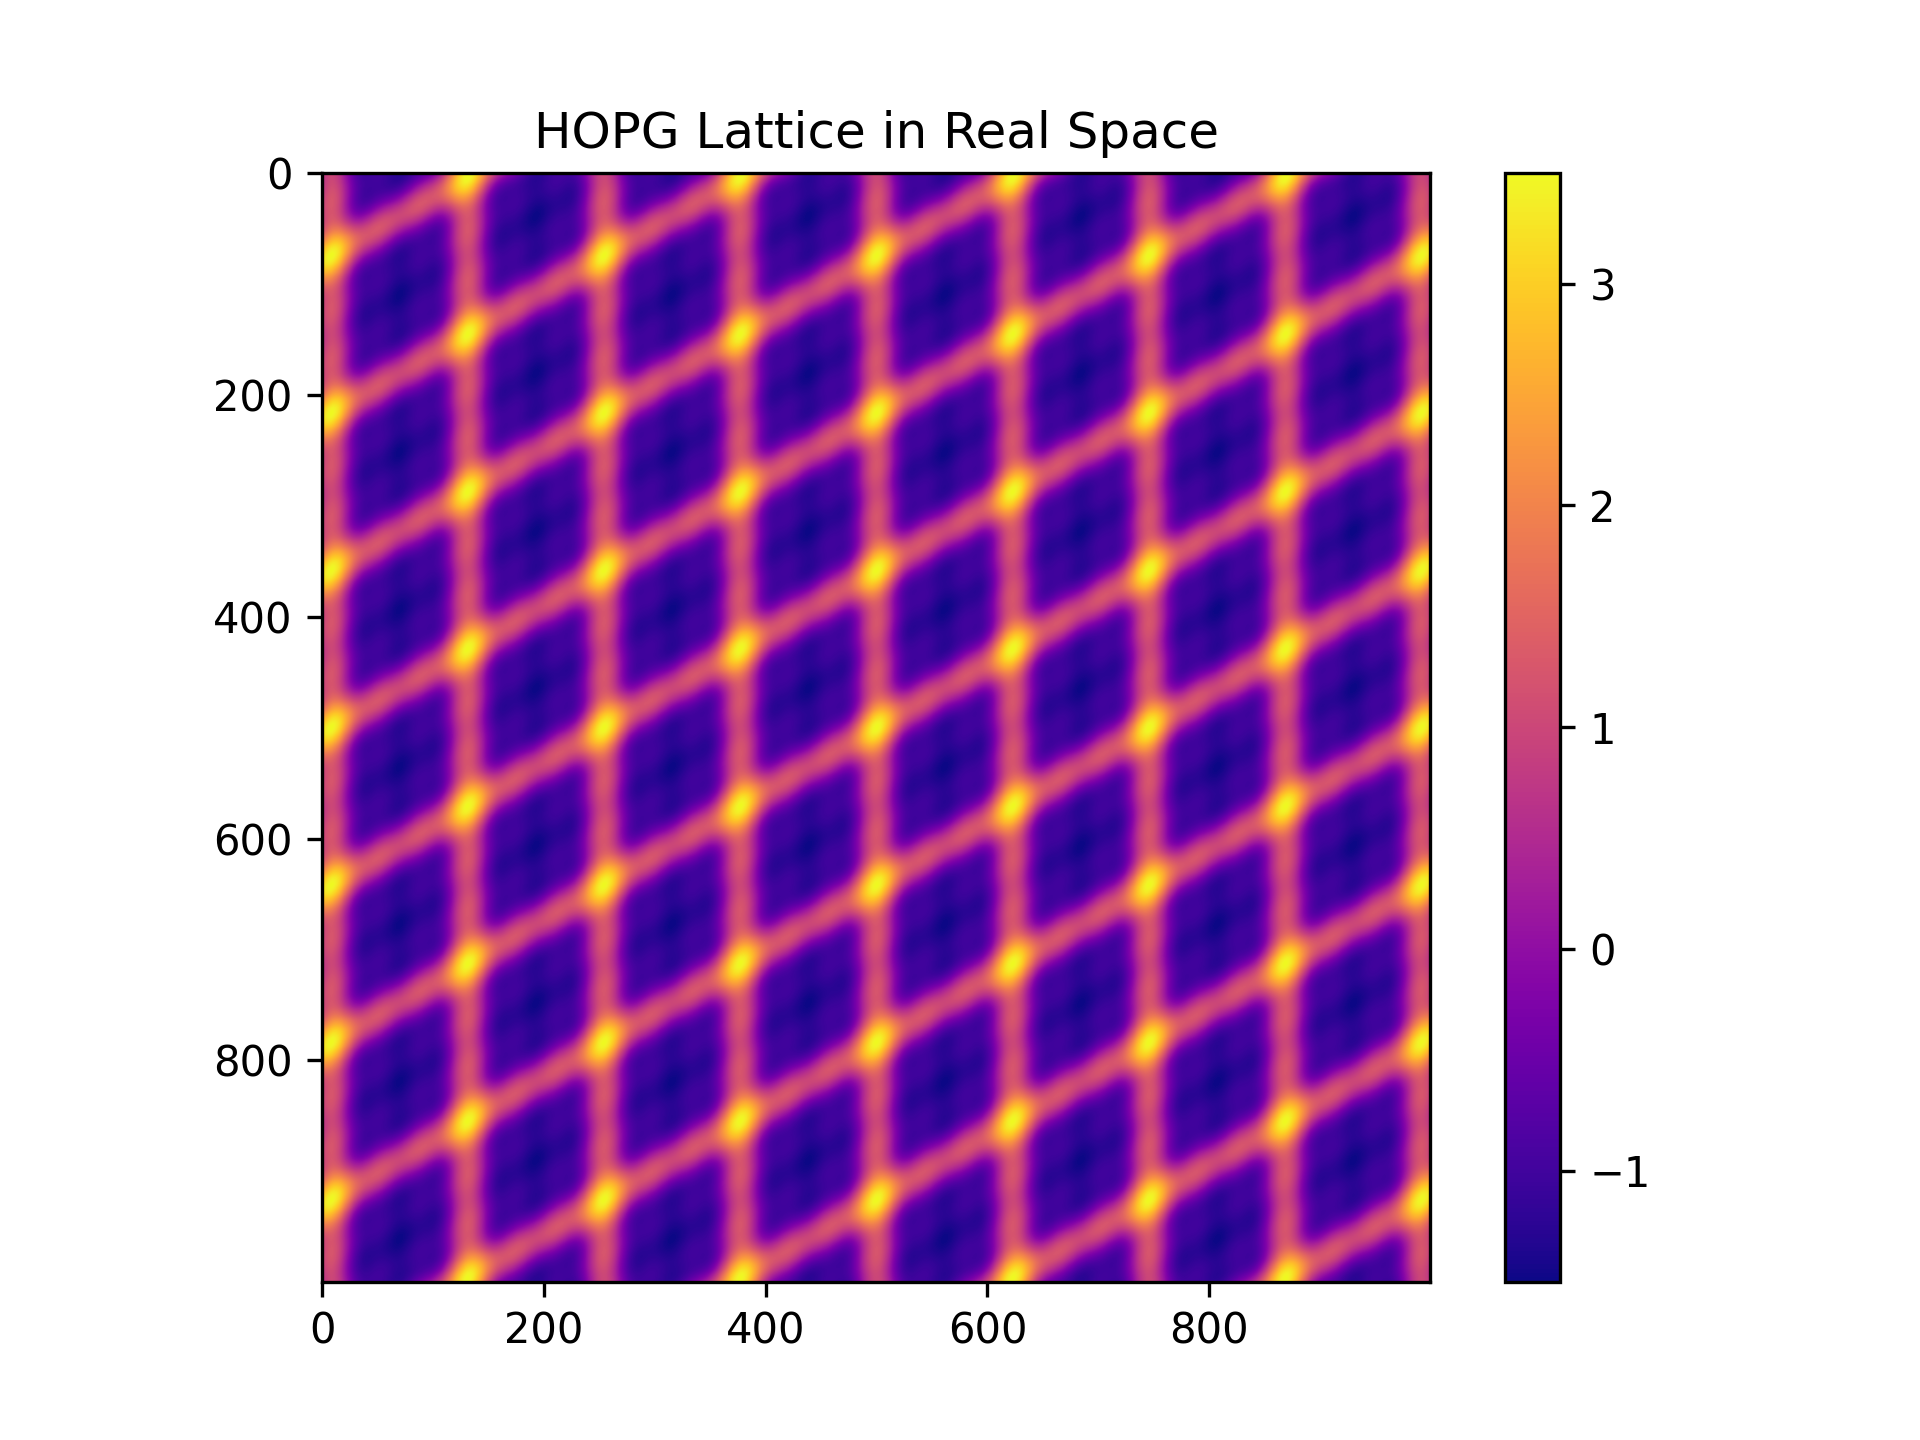
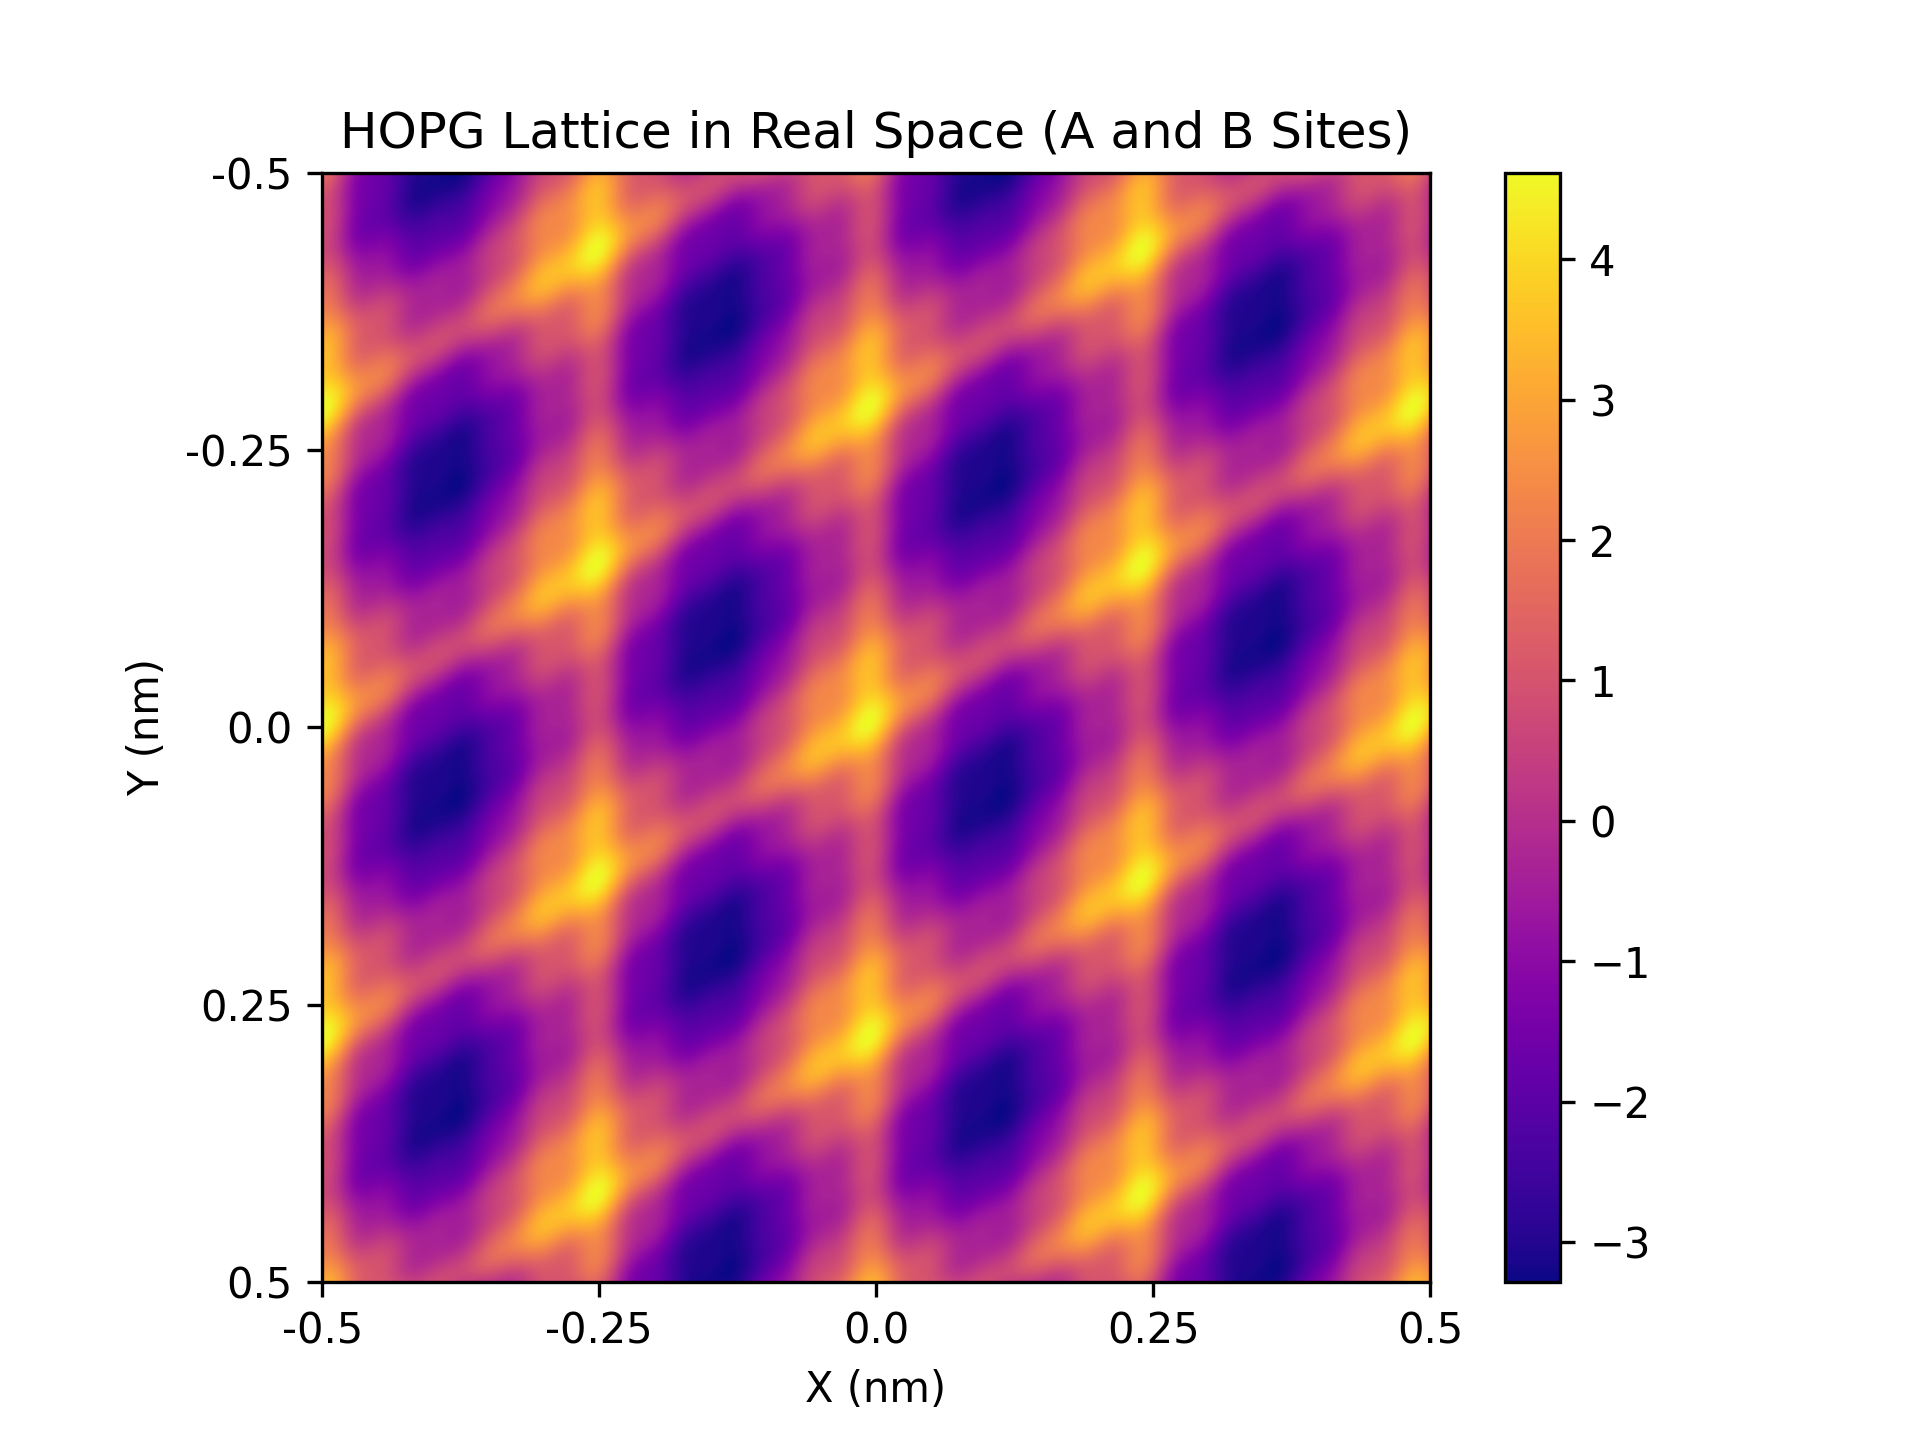
Added a 3D plot to FFT sim and fixed coefficients

diff --git a/FFTSim.py b/FFTSim.py
@@ -5,42 +5,78 @@ import matplotlib.pyplot as plt
 a = 0.246  # lattice constant for graphene in nm
 k = 2 * np.pi / a  # wave vector
 n = 1000  # size of the simulation grid
-real_space_size =2 #nm
+real_space_size = 1 # nm
 theta = np.pi / 3  
-kx1, ky1 = k, 0
-kx2, ky2 = k * np.cos(theta), k * np.sin(theta)
-# Second harmonic wave vectors
-kx1_2, ky1_2 = 2 * kx1, 2 * ky1
-kx2_2, ky2_2 = 2 * kx2, 2 * ky2
 
-# Third harmonic wave vectors
-kx1_3, ky1_3 = 3 * kx1, 3 * ky1
-kx2_3, ky2_3 = 3 * kx2, 3 * ky2
+# Function to generate harmonic wave vectors
+def generate_wave_vectors(k, theta, n_harmonics):
+    wave_vectors = []
+    for n in range(1, n_harmonics + 1):
+        kx1, ky1 = n * k, 0
+        kx2, ky2 = n * k * np.cos(theta), n * k * np.sin(theta)
+        wave_vectors.append((kx1, ky1, kx2, ky2))
+    return wave_vectors
+
+# Generate wave vectors for the first harmonics
+n_harmonics = 5
+wave_vectors = generate_wave_vectors(k, theta, n_harmonics)
+P_n = [1, 0.1, 0.1, 0.1, 0.1]
+
 # Generate real space lattice points
 x = np.linspace(-real_space_size/2, real_space_size/2, n)
 y = np.linspace(-real_space_size/2, real_space_size/2, n)
 X, Y = np.meshgrid(x, y)
-P_1,P_2 = 1, 0.5
-lattice_real_space = np.cos(kx1 * X + ky1 * Y) + np.cos(kx2 * X + ky2 * Y) +0.5 * (np.cos(kx1_2 * X + ky1_2 * Y) + np.cos(kx2_2 * X + ky2_2 * Y)) +  0.25 * (np.cos(kx1_3 * X + ky1_3 * Y) + np.cos(kx2_3 * X + ky2_3 * Y)) 
-sigma = 50  # standard deviation for Gaussian smoothing
+lattice_real_space = np.zeros_like(X)
+
+# Adding contributions from A and B sites
+for i, (kx1, ky1, kx2, ky2) in enumerate(wave_vectors):
+    P = P_n[i]
+    # A-site contribution
+    lattice_real_space += P * (np.cos(kx1 * X + ky1 * Y) + np.cos(kx2 * X + ky2 * Y))
+    # B-site contribution with a phase shift (e.g., pi)
+    lattice_real_space += P * (np.cos(kx1 * X + ky1 * Y + np.pi/3) + np.cos(kx2 * X + ky2 * Y + np.pi/3))
+
+sigma = 10000  # standard deviation for Gaussian smoothing
 gaussian_envelope = np.exp(-(X**2 + Y**2) / (2 * sigma**2))
-lattice_real_space_smooth = lattice_real_space * gaussian_envelope
-print(lattice_real_space_smooth)
+lattice_real_space_smooth = lattice_real_space
+
 # Plot real space lattice
-plt.title("HOPG Lattice in Real Space")
-plt.imshow(lattice_real_space, cmap='plasma')
+plt.title("HOPG Lattice in Real Space (A and B Sites)")
+plt.imshow(lattice_real_space_smooth, cmap='plasma')
 plt.colorbar()
-plt.savefig("Produced_Plots/FFTSIM/HOPG_Lattice_Real_Space.png",dpi=300)
+plt.xticks(ticks=np.linspace(0, n, 5), labels=np.round(np.linspace(-real_space_size/2, real_space_size/2, 5), 2))
+plt.yticks(ticks=np.linspace(0, n, 5), labels=np.round(np.linspace(-real_space_size/2, real_space_size/2, 5), 2))
+plt.xlabel("X (nm)")
+plt.ylabel("Y (nm)")
+plt.savefig("Produced_Plots/FFTSIM/HOPG_Lattice_Real_Space.png", dpi=300)
 plt.show()
 
+# Plot 3D 'sideways' plot of the real space lattice
+fig = plt.figure()
+ax = fig.add_subplot(111, projection='3d')
+ax.plot_surface(X, Y, lattice_real_space_smooth, cmap='plasma')
 
+ax.set_title("3D Sideways Plot of HOPG Lattice in Real Space")
+ax.set_xlabel("X (nm)")
+ax.set_ylabel("Y (nm)")
+ax.set_zlabel("Amplitude")
+
+plt.savefig("Produced_Plots/FFTSIM/HOPG_Lattice_Real_Space_3D.png", dpi=300)
+plt.show()
 # Compute 2D FFT for reciprocal space
-lattice_reciprocal_space = np.fft.fftshift(np.fft.fft2(lattice_real_space))
+lattice_reciprocal_space = np.fft.fftshift(np.fft.fft2(lattice_real_space_smooth))
 magnitude_reciprocal = np.abs(lattice_reciprocal_space)
 
 # Plot reciprocal space (2D FFT result)
 plt.title("Reciprocal Space (2D FFT of HOPG Lattice)")
-plt.imshow(np.log(magnitude_reciprocal), cmap='plasma')
+plt.imshow(np.log(1 + magnitude_reciprocal), cmap='plasma')  # 1 + data for contrast
+kx = np.fft.fftshift(np.fft.fftfreq(n, d=(x[1] - x[0])))
+ky = np.fft.fftshift(np.fft.fftfreq(n, d=(y[1] - y[0])))
+plt.xticks(ticks=np.linspace(0, n, 5), labels=np.round(np.linspace(kx[0], kx[-1], 5), 2))
+plt.yticks(ticks=np.linspace(0, n, 5), labels=np.round(np.linspace(ky[0], ky[-1], 5), 2))
+plt.xlabel("kx (1/nm)")
+plt.ylabel("ky (1/nm)")
 plt.colorbar()
 plt.savefig("Produced_Plots/FFTSIM/HOPG_Lattice_Reciprocal_Space.png", dpi=300)
 plt.show()
+
